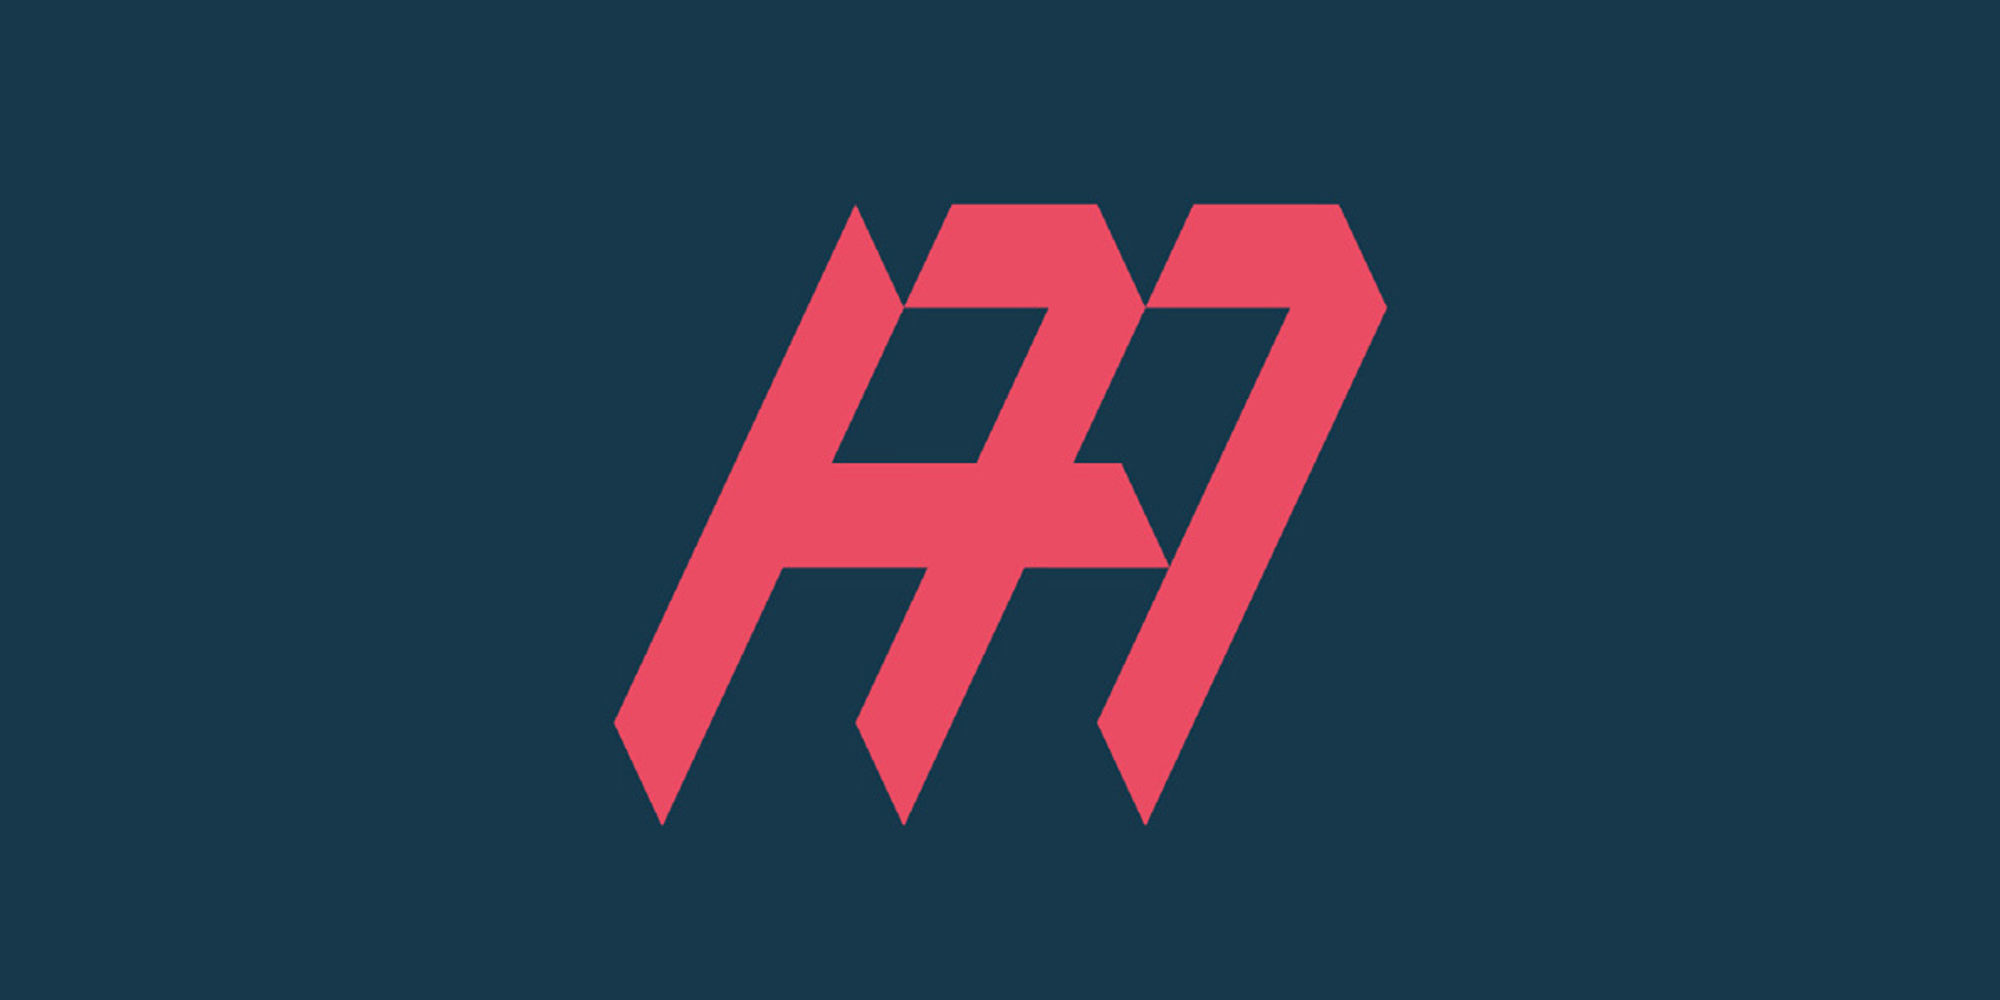
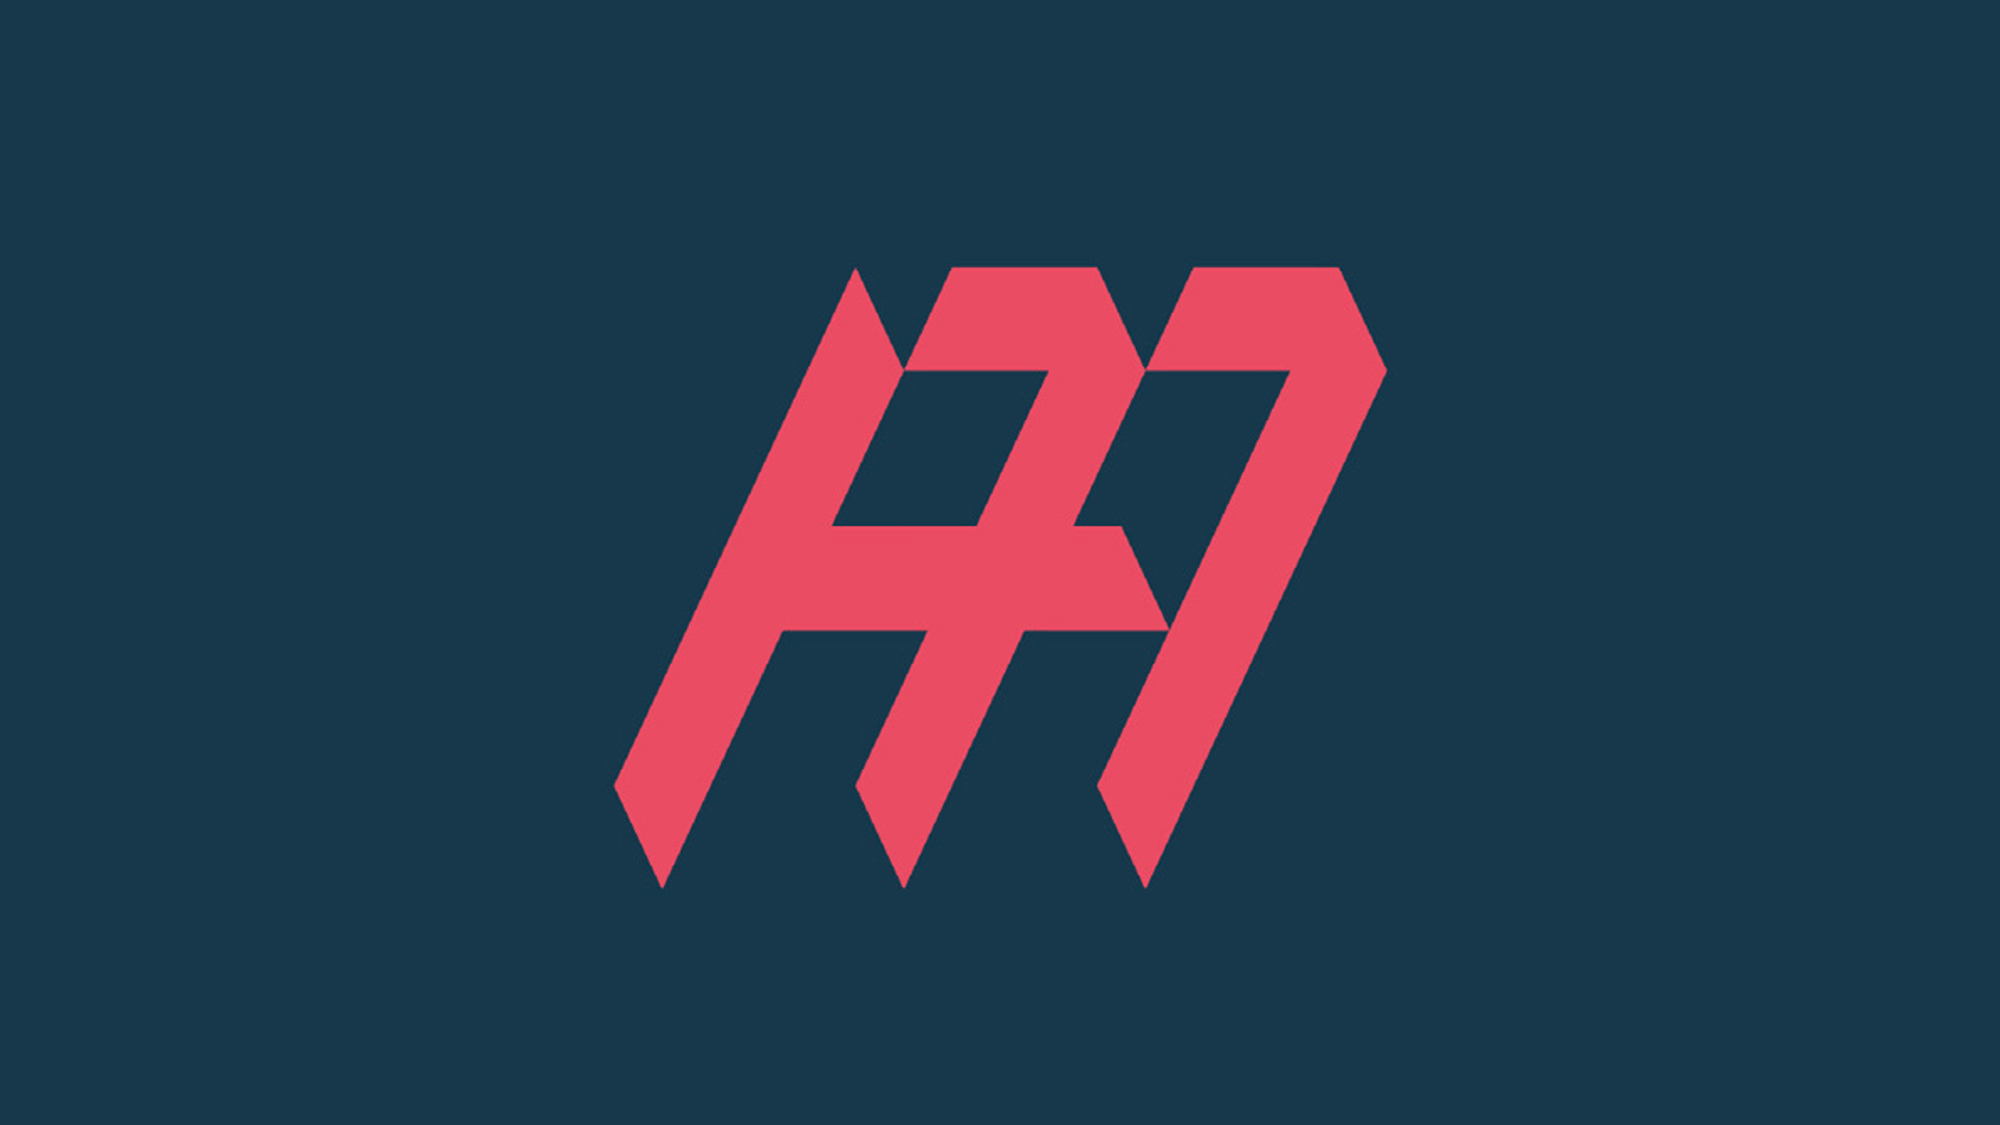
adding some thumbnails and adjusting image sizes

diff --git a/docs/_scss/layout.scss b/docs/_scss/layout.scss
@@ -11,6 +11,15 @@ body {
   // }
 }
 
+@keyframes rotating {
+  from {
+    transform: rotate(0deg);
+  }
+  to {
+    transform: rotate(360deg);
+  }
+}
+
 #root-container {
   margin: 0 auto;
   overflow: hidden;
@@ -34,7 +43,7 @@ body {
   padding-top: 100%;
 
   &.image-span-double {
-    padding-top: 50%;
+    padding-top: 56.25%;
   }
 
   .image-img {
@@ -118,7 +127,7 @@ body {
   }
 }
 
-.embed-controls-play-pause {
+.embed-controls-button {
   cursor: pointer;
   position: absolute;
   top: 0;
@@ -127,10 +136,10 @@ body {
   height: 100%;
 
   span {
-    display: none;
+    display: block;
   }
 
-  i {
+  .embed-controls-control {
     display: block;
     width: 5em;
     height: 5em;
@@ -139,28 +148,46 @@ body {
     top: 50%;
     left: 50%;
     transform: translate(-50%, -50%);
-    opacity: 1;
-    transition-property: opacity;
-    transition-duration: 0s;
-    transition-delay: 0s;
+  }
 
-    &:before {
+  .embed-controls-play {
+    position: absolute;
+    top: 50%;
+    left: 50%;
+    transform: translate(-40%, -50%);
+    width: 0;
+    height: 0;
+    border-top: 1em solid transparent;
+    border-bottom: 1em solid transparent;
+    border-left: 1.5em solid white;
+  }
+
+  .embed-controls-loading {
+    position: absolute;
+    animation: rotating 2s linear infinite;
+    top: 0;
+    left: 0;
+    width: 100%;
+    height: 100%;
+
+    &::before {
       content: '';
       display: block;
       position: absolute;
       top: 50%;
       left: 50%;
-      transform: translate(-40%, -50%);
-      width: 0;
-      height: 0;
-      border-top: 1em solid transparent;
-      border-bottom: 1em solid transparent;
-      border-left: 1.5em solid white;
+      width: 40%;
+      height: 40%;
+      transform: translate(-50%, -50%);
+      border-top: 0.2em solid white;
+      border-left: 0.2em solid white;
+      border-right: 0.2em solid white;
+      border-radius: 50%;
     }
   }
 
   &:hover {
-    i {
+    .embed-controls-control {
       background-color: $colour-primary;
     }
   }
@@ -323,7 +350,7 @@ body {
     @media(min-width: $bp-mobile) {
       width: 100%;
       a {
-        padding-top: 50%;
+        padding-top: 56.25%;
       }
     }
   }
@@ -420,7 +447,7 @@ article.work {
       }
 
       blockquote p {
-        max-width: 20em;
+        max-width: 22.5em;
       }
 
       @media(min-width: $bp-mobile) {
@@ -557,7 +584,7 @@ iframe.b-lazy {
 .gallery {
   overflow: hidden;
   position: relative;
-  padding-top: 50%;
+  padding-top: 56.25%;
 
   .progress-bar {
     position: absolute;

diff --git a/docs/assets/javascript/_components/Embed.js b/docs/assets/javascript/_components/Embed.js
@@ -87,11 +87,14 @@
       onReady: function (player) {
         this.player = player
       },
+      onTimeUpdate: function(e) {
+        if(e.seconds > 0) this.onPlay()
+      },
       pause: function () {
         this.$refs.player.pause()
       }
     },
-    template: `<vimeo-player ref="player" :video-id="id" :options="playerOptions" @play="onPlay" />`
+    template: `<vimeo-player ref="player" :video-id="id" :options="playerOptions" @timeupdate="onTimeUpdate" />`
   })
 
   ExtendComponent('scroll', 'embed-inline', {
@@ -116,7 +119,7 @@
       },
       background_colour: {
         type: String,
-        default: 'black'
+        default: 'transparent'
       }
     },
     data: function() {
@@ -152,10 +155,12 @@
           </div>
           <div v-if="image && !playing" class="embed-cover-image" @click="onImageClick" >
             <image-background :src="image" />
-            <div v-if="!load" class="embed-controls-play-pause">
-              <span>Play</span>
-              <i></i>
-            </div>
+            <span class="embed-controls-button">
+              <span class="embed-controls-control">
+                <span v-if="!load" class="embed-controls-play" />
+                <span v-else class="embed-controls-loading" />
+              </span>
+            </span>
           </div>
         </div>
       </div>

diff --git a/resize/index.js b/resize/index.js
@@ -26,7 +26,8 @@ const CROP = {
 
 const SIZES = {
   default: [1000, 1000],
-  double: [2000, 1000],
+  // double: [2000, 1000],
+  double: [2000, 1125],
   thumb: [1000, 1000],
   embed: [2000, 1125],
   reference: [160, 160]

diff --git a/docs/work/ballantines.md b/docs/work/ballantines.md
@@ -26,6 +26,7 @@ rows:
     content:
       - type: embed
         provider: vimeo
+        image: DSC3796.jpg
         id: 142379770
     footer: A video that shows some stuff
   -
